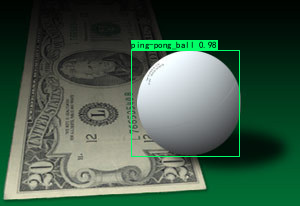
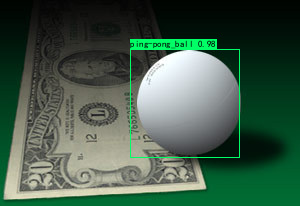
add tflite predict

Changed region(s): [[0.42, 0.1748, 0.81, 0.7864]]

diff --git a/predict_tflite.py b/predict_tflite.py
@@ -4,6 +4,8 @@ from PIL import Image, ImageDraw, ImageFont
 
 from model import SSD300
 
+import tensorflow as tf
+
 from keras.applications.imagenet_utils import preprocess_input
 
 
@@ -303,11 +305,56 @@ def predict(image, model, bbox_util, anchors, input_shape=[300, 300], confidence
     image_data = preprocess_input(np.expand_dims(np.array(image_data, dtype='float32'), 0))
 
     # 模型计算推理
-    preds = model.predict(image_data)
+    preds = interpreter_compute(model, image_data)[0]
     # 将预测结果进行解码
     results = bbox_util.decode_box(preds, anchors, image_shape, input_shape, letterbox_image=False, confidence=confidence)
 
     return results
+
+def format_input_tensor(tensor, input_details, idx):
+    details = input_details[idx]
+    dtype = details['dtype']
+    if dtype == np.uint8 or dtype == np.int8:
+        quant_params = details['quantization_parameters']
+        input_tensor = tensor / quant_params['scales'] + quant_params['zero_points']
+        if dtype == np.int8:
+            input_tensor = input_tensor.clip(-128, 127)
+        else:
+            input_tensor = input_tensor.clip(0, 255)
+        return input_tensor.astype(dtype)
+    else:
+        return tensor
+
+def get_output_tensor(interpreter, output_details, idx):
+    details = output_details[idx]
+    if details['dtype'] == np.uint8 or details['dtype'] == np.int8:
+        quant_params = details['quantization_parameters']
+        int_tensor = interpreter.get_tensor(details['index']).astype(np.int32)
+        real_tensor = int_tensor - quant_params['zero_points']
+        real_tensor = real_tensor.astype(np.float32) * quant_params['scales']
+    else:
+        real_tensor = interpreter.get_tensor(details['index'])
+    return real_tensor
+
+def init_interpreter(model_path, input_shape=(300,300)):    
+    interpreter = tf.lite.Interpreter(model_path=model_path)
+    interpreter.allocate_tensors()
+    input_details = interpreter.get_input_details()
+    output_details = interpreter.get_output_details()
+    interpreter.resize_tensor_input(input_details[0]["index"], [1, input_shape[0], input_shape[1], 3])
+    interpreter.allocate_tensors()
+    return interpreter
+
+def interpreter_compute(interpreter, input_data):
+    input_details = interpreter.get_input_details()
+    output_details = interpreter.get_output_details()
+
+    inputs = format_input_tensor(input_data, input_details, 0) # 注意这个函数
+    interpreter.set_tensor(input_details[0]['index'], inputs)
+    interpreter.invoke()
+    outputs = [get_output_tensor(interpreter, output_details, 0)] # 注意这个函数
+
+    return outputs
 
 if __name__ == '__main__':
     # 加载类别
@@ -316,7 +363,7 @@ if __name__ == '__main__':
     input_shape = [300, 300]
 
     # 加载模型
-    model = load_ssd_model('models/mobilenet_ssd.h5', input_shape=input_shape, num_classes=len(class_names))
+    model = init_interpreter('models/mobilenet_ssd_quantized.tflite')
 
     # 加载先验框
     anchors = get_anchors(input_shape=input_shape, anchors_size=[21, 45, 99, 153, 207, 261, 315])
